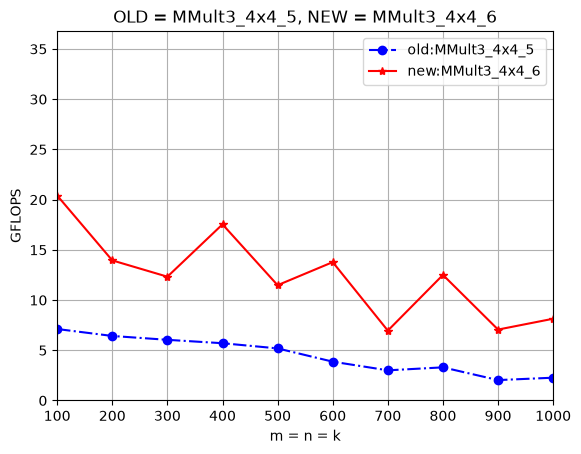
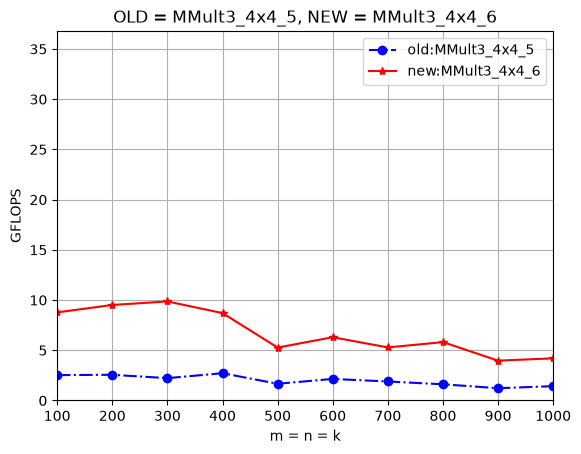
4x4，在WSL上测试，性能最好才到 10 GFLOPS，原因待查

diff --git a/src/MMult3_4x4_12.c b/src/MMult3_4x4_12.c
@@ -1,48 +1,44 @@
-
-/* Create macros so that the matrices are stored in column-major order */
-
+/* Create macros so that the matrices are stored in row-major order */
 #define A(i,j) a[ (i)*lda + (j) ]
 #define B(i,j) b[ (i)*ldb + (j) ]
 #define C(i,j) c[ (i)*ldc + (j) ]
 
 /* Block sizes */
-#define nc 128
 #define kc 256
+#define nc 128
 
 #define min( i, j ) ( (i)<(j) ? (i): (j) )
 
 /* Routine for computing C = A * B + C */
-
 void AddDot4x4( int, double *, int, double *, int, double *, int );
+void InnerKernel( int m, int n, int k, double *a, int lda, 
+    double *b, int ldb, double *c, int ldc );
 void PackMatrixA( int, double *, int, double * );
 
 void MY_MMult( int m, int n, int k, double *a, int lda, 
                                     double *b, int ldb,
                                     double *c, int ldc )
 {
+  /* This time, we compute a m x nc block of C by a call to the InnerKernel */
   for (int p=0; p<k; p+=kc ){
-    int pb = min( k-p, kc );
-    for (int i=0; i<n; i+=nc ){
-      int ib = min( n-i, nc );
-      InnerKernel( m, ib, pb, &A( 0, p), lda, &B(p, i ), ldb, &C( 0,i ), ldc );
+    int kb = min( k-p, kc );
+    for (int j=0; j<n; j+=nc ){
+      int nb = min( n-j, nc );
+      InnerKernel( m, nb, kb, &A( 0, p), lda, &B(p, j ), ldb, &C( 0,j ), ldc );
     }
   }
 }
-
 
 void InnerKernel( int m, int n, int k, double *a, int lda, 
                                        double *b, int ldb,
                                        double *c, int ldc )
 {
-  int i, j;
-  double 
-    packedA[ m * k ];
-
-  for ( i=0; i<m; i+=4 ){        /* Loop over the columns of C, unrolled by 4 */
+  double packedA[ m * k ];
+  for (int i=0; i<m; i+=4 ){ /* Loop over the rows of C */
     PackMatrixA( k, &A( i, 0 ), lda, &packedA[ i*k ] );
-    for ( j=0; j<n; j+=4 ){        /* Loop over the rows of C */
+    for (int j=0; j<n; j+=4 ){ /* Loop over the columns of C, unrolled by 4 */
       /* Update C( i,j ), C( i,j+1 ), C( i,j+2 ), and C( i,j+3 ) in
-	 one routine (four inner products) */
+	   one routine (four inner products) */
       AddDot4x4( k, &packedA[ i*k ], k , &B( 0,j ), ldb, &C( i,j ), ldc );
     }
   }
@@ -53,9 +49,8 @@ void PackMatrixA( int k, double *a, int lda, double *a_to )
   double 
     *a_0i_pntr = &A( 0, 0 ), *a_1i_pntr = &A( 1, 0 ),
     *a_2i_pntr = &A( 2, 0 ), *a_3i_pntr = &A( 3, 0 );
-  int j;
 
-  for( j=0; j<k; j++){  /* loop over columns of A */
+  for(int j=0; j<k; j++){ /* loop over columns of A */
     *a_to++ = *a_0i_pntr++;
     *a_to++ = *a_1i_pntr++;
     *a_to++ = *a_2i_pntr++;
@@ -63,10 +58,7 @@ void PackMatrixA( int k, double *a, int lda, double *a_to )
   }
 }
 
-#include <mmintrin.h>
-#include <xmmintrin.h>  // SSE
-#include <pmmintrin.h>  // SSE2
-#include <emmintrin.h>  // SSE3
+#include <immintrin.h>
 
 typedef union
 {
@@ -97,62 +89,49 @@ void AddDot4x4( int k, double *a, int lda,  double *b, int ldb, double *c, int l
 
 
   v2df_t
-    c_00_c_01_vreg,    c_10_c_11_vreg,    c_20_c_21_vreg,    c_30_c_31_vreg,
-    c_02_c_03_vreg,    c_12_c_13_vreg,    c_22_c_23_vreg,    c_32_c_33_vreg,
-    b_p0_b_p1_vreg,
-    b_p2_a_p3_vreg,
-    a_0p_vreg, a_1p_vreg, a_2p_vreg, a_3p_vreg; 
+    c_00_c_01_vreg, c_02_c_03_vreg,
+    c_10_c_11_vreg, c_12_c_13_vreg,
+    c_20_c_21_vreg, c_22_c_23_vreg,
+    c_30_c_31_vreg, c_32_c_33_vreg,
+    a_0p_vreg, a_1p_vreg, a_2p_vreg, a_3p_vreg,
+    b_p0_b_p1_vreg, b_p2_b_p3_vreg; 
 
-  double 
-    /* Point to the current elements in the four columns of B */
-    *a_0p_pntr, *a_1p_pntr, *a_2p_pntr, *a_3p_pntr; 
-    
-  a_0p_pntr = &A( 0, 0 );
-  a_1p_pntr = &A( 1, 0 );
-  a_2p_pntr = &A( 2, 0 );
-  a_3p_pntr = &A( 3, 0 );
-
-  c_00_c_01_vreg.v = _mm_setzero_pd();   
+  c_00_c_01_vreg.v = _mm_setzero_pd();
+  c_02_c_03_vreg.v = _mm_setzero_pd();
   c_10_c_11_vreg.v = _mm_setzero_pd();
-  c_20_c_21_vreg.v = _mm_setzero_pd(); 
-  c_30_c_31_vreg.v = _mm_setzero_pd(); 
-  c_02_c_03_vreg.v = _mm_setzero_pd();   
-  c_12_c_13_vreg.v = _mm_setzero_pd();  
-  c_22_c_23_vreg.v = _mm_setzero_pd();   
-  c_32_c_33_vreg.v = _mm_setzero_pd(); 
+  c_12_c_13_vreg.v = _mm_setzero_pd();
+  c_20_c_21_vreg.v = _mm_setzero_pd();
+  c_22_c_23_vreg.v = _mm_setzero_pd();
+  c_30_c_31_vreg.v = _mm_setzero_pd();
+  c_32_c_33_vreg.v = _mm_setzero_pd();
 
   for (int p=0; p<k; p++ ){
+    a_0p_vreg.v = _mm_loaddup_pd( (double *) a++ );   /* load and duplicate */
+    a_1p_vreg.v = _mm_loaddup_pd( (double *) a++ );   /* load and duplicate */
+    a_2p_vreg.v = _mm_loaddup_pd( (double *) a++ );   /* load and duplicate */
+    a_3p_vreg.v = _mm_loaddup_pd( (double *) a++ );   /* load and duplicate */
+
     b_p0_b_p1_vreg.v = _mm_load_pd( (double *) &B( p, 0 ) );
-    b_p2_a_p3_vreg.v = _mm_load_pd( (double *) &B( p, 2 ) );
+    b_p2_b_p3_vreg.v = _mm_load_pd( (double *) &B( p, 2 ) );
 
-    a_0p_vreg.v = _mm_loaddup_pd( (double *) a );   /* load and duplicate */
-    a_1p_vreg.v = _mm_loaddup_pd( (double *) (a+1));   /* load and duplicate */
-    a_2p_vreg.v = _mm_loaddup_pd( (double *) (a+2) );   /* load and duplicate */
-    a_3p_vreg.v = _mm_loaddup_pd( (double *) (a+3) );   /* load and duplicate */
-
-    a+=4;
     /* First row and second rows */
     c_00_c_01_vreg.v += a_0p_vreg.v * b_p0_b_p1_vreg.v;
+    c_02_c_03_vreg.v += a_0p_vreg.v * b_p2_b_p3_vreg.v;
     c_10_c_11_vreg.v += a_1p_vreg.v * b_p0_b_p1_vreg.v;
-    c_20_c_21_vreg.v += a_2p_vreg.v * b_p0_b_p1_vreg.v;
-    c_30_c_31_vreg.v += a_3p_vreg.v * b_p0_b_p1_vreg.v;
-
+    c_12_c_13_vreg.v += a_1p_vreg.v * b_p2_b_p3_vreg.v;
     /* Third and fourth rows */
-    c_02_c_03_vreg.v += a_0p_vreg.v * b_p2_a_p3_vreg.v;
-    c_12_c_13_vreg.v += a_1p_vreg.v * b_p2_a_p3_vreg.v;
-    c_22_c_23_vreg.v += a_2p_vreg.v * b_p2_a_p3_vreg.v;
-    c_32_c_33_vreg.v += a_3p_vreg.v * b_p2_a_p3_vreg.v;
+    c_20_c_21_vreg.v += a_2p_vreg.v * b_p0_b_p1_vreg.v;
+    c_22_c_23_vreg.v += a_2p_vreg.v * b_p2_b_p3_vreg.v;
+    c_30_c_31_vreg.v += a_3p_vreg.v * b_p0_b_p1_vreg.v;
+    c_32_c_33_vreg.v += a_3p_vreg.v * b_p2_b_p3_vreg.v;
   }
 
-  C( 0, 0 ) += c_00_c_01_vreg.d[0];  C( 1, 0 ) += c_10_c_11_vreg.d[0];  
-  C( 2, 0 ) += c_20_c_21_vreg.d[0];  C( 3, 0 ) += c_30_c_31_vreg.d[0]; 
-
-  C( 0, 1 ) += c_00_c_01_vreg.d[1];  C( 1, 1 ) += c_10_c_11_vreg.d[1];  
-  C( 2, 1 ) += c_20_c_21_vreg.d[1];  C( 3, 1 ) += c_30_c_31_vreg.d[1]; 
-
-  C( 0, 2 ) += c_02_c_03_vreg.d[0];  C( 1, 2 ) += c_12_c_13_vreg.d[0];  
-  C( 2, 2 ) += c_22_c_23_vreg.d[0];  C( 3, 2 ) += c_32_c_33_vreg.d[0]; 
-
-  C( 0, 3 ) += c_02_c_03_vreg.d[1];  C( 1, 3 ) += c_12_c_13_vreg.d[1];  
-  C( 2, 3 ) += c_22_c_23_vreg.d[1];  C( 3, 3 ) += c_32_c_33_vreg.d[1]; 
+  C( 0, 0 ) += c_00_c_01_vreg.d[0];  C( 0, 1 ) += c_00_c_01_vreg.d[1];  
+  C( 0, 2 ) += c_02_c_03_vreg.d[0];  C( 0, 3 ) += c_02_c_03_vreg.d[1];
+  C( 1, 0 ) += c_10_c_11_vreg.d[0];  C( 1, 1 ) += c_10_c_11_vreg.d[1];  
+  C( 1, 2 ) += c_12_c_13_vreg.d[0];  C( 1, 3 ) += c_12_c_13_vreg.d[1]; 
+  C( 2, 0 ) += c_20_c_21_vreg.d[0];  C( 2, 1 ) += c_20_c_21_vreg.d[1];
+  C( 2, 2 ) += c_22_c_23_vreg.d[0];  C( 2, 3 ) += c_22_c_23_vreg.d[1];
+  C( 3, 0 ) += c_30_c_31_vreg.d[0];  C( 3, 1 ) += c_30_c_31_vreg.d[1];
+  C( 3, 2 ) += c_32_c_33_vreg.d[0];  C( 3, 3 ) += c_32_c_33_vreg.d[1]; 
 }

diff --git a/images/output_MMult3_4x4_10.m b/images/output_MMult3_4x4_10.m
@@ -1,0 +1,13 @@
+version = 'MMult3_4x4_10';
+MY_MMult = [
+100 8.510638e+00 3.552714e-15 
+200 1.094391e+01 7.105427e-15 
+300 1.131601e+01 2.131628e-14 
+400 8.705114e+00 1.776357e-14 
+500 6.302627e+00 1.421085e-14 
+600 6.127312e+00 2.131628e-14 
+700 5.666050e+00 2.842171e-14 
+800 4.708977e+00 3.552714e-14 
+900 3.133132e+00 3.197442e-14 
+1000 4.215123e+00 4.263256e-14 
+];

diff --git a/images/output_MMult3_4x4_11.m b/images/output_MMult3_4x4_11.m
@@ -1,0 +1,13 @@
+version = 'MMult3_4x4_11';
+MY_MMult = [
+100 1.025641e+01 3.552714e-15 
+200 9.395185e+00 7.105427e-15 
+300 8.906482e+00 1.243450e-14 
+400 9.007741e+00 2.131628e-14 
+500 9.416905e+00 2.131628e-14 
+600 8.843579e+00 3.730349e-14 
+700 9.751660e+00 5.329071e-14 
+800 6.635433e+00 6.394885e-14 
+900 9.138659e+00 4.618528e-14 
+1000 8.322514e+00 6.039613e-14 
+];

diff --git a/images/output_MMult3_4x4_12.m b/images/output_MMult3_4x4_12.m
@@ -1,0 +1,13 @@
+version = 'MMult3_4x4_12';
+MY_MMult = [
+100 1.010101e+01 3.552714e-15 
+200 1.022364e+01 7.105427e-15 
+300 9.525490e+00 1.243450e-14 
+400 1.014504e+01 2.131628e-14 
+500 8.191618e+00 2.131628e-14 
+600 9.093397e+00 3.730349e-14 
+700 1.065234e+01 5.329071e-14 
+800 8.033956e+00 6.394885e-14 
+900 9.780246e+00 4.618528e-14 
+1000 9.685887e+00 6.039613e-14 
+];

diff --git a/images/output_MMult3_4x4_13.m b/images/output_MMult3_4x4_13.m
@@ -1,0 +1,13 @@
+version = 'MMult3_4x4_13';
+MY_MMult = [
+100 8.000000e+00 3.552714e-15 
+200 1.036269e+01 7.105427e-15 
+300 1.015801e+01 1.243450e-14 
+400 1.102498e+01 2.131628e-14 
+500 1.010877e+01 2.131628e-14 
+600 1.058824e+01 3.730349e-14 
+700 9.015758e+00 5.329071e-14 
+800 9.177354e+00 6.394885e-14 
+900 1.048325e+01 4.618528e-14 
+1000 1.073215e+01 6.039613e-14 
+];

diff --git a/images/output_MMult3_4x4_14.m b/images/output_MMult3_4x4_14.m
@@ -1,0 +1,13 @@
+version = 'MMult3_4x4_14';
+MY_MMult = [
+100 7.518797e+00 3.552714e-15 
+200 7.380074e+00 7.105427e-15 
+300 6.930185e+00 1.243450e-14 
+400 6.824483e+00 2.131628e-14 
+500 7.235890e+00 2.131628e-14 
+600 7.072807e+00 3.730349e-14 
+700 6.486936e+00 5.329071e-14 
+800 6.908276e+00 6.394885e-14 
+900 7.086304e+00 4.618528e-14 
+1000 7.131218e+00 6.039613e-14 
+];

diff --git a/images/output_MMult3_4x4_15.m b/images/output_MMult3_4x4_15.m
@@ -1,0 +1,13 @@
+version = 'MMult3_4x4_15';
+MY_MMult = [
+100 1.020408e+01 3.552714e-15 
+200 9.981285e+00 7.105427e-15 
+300 7.822686e+00 1.243450e-14 
+400 9.862085e+00 2.131628e-14 
+500 8.343345e+00 2.131628e-14 
+600 9.475347e+00 3.730349e-14 
+700 9.709700e+00 5.329071e-14 
+800 9.976909e+00 6.394885e-14 
+900 1.012788e+01 4.618528e-14 
+1000 9.453806e+00 6.039613e-14 
+];

diff --git a/images/output_MMult3_4x4_3.m b/images/output_MMult3_4x4_3.m
@@ -1,0 +1,13 @@
+version = 'MMult3_4x4_3';
+MY_MMult = [
+100 2.247191e+00 0.000000e+00 
+200 2.524057e+00 0.000000e+00 
+300 3.133887e+00 0.000000e+00 
+400 2.722767e+00 0.000000e+00 
+500 2.743695e+00 0.000000e+00 
+600 2.650892e+00 0.000000e+00 
+700 2.590038e+00 0.000000e+00 
+800 1.927987e+00 0.000000e+00 
+900 2.384141e+00 0.000000e+00 
+1000 2.181710e+00 0.000000e+00 
+];

diff --git a/images/output_MMult3_4x4_4.m b/images/output_MMult3_4x4_4.m
@@ -1,0 +1,13 @@
+version = 'MMult3_4x4_4';
+MY_MMult = [
+100 4.329004e+00 0.000000e+00 
+200 3.644647e+00 0.000000e+00 
+300 3.364276e+00 0.000000e+00 
+400 3.187013e+00 0.000000e+00 
+500 2.938135e+00 0.000000e+00 
+600 3.353048e+00 0.000000e+00 
+700 3.266869e+00 0.000000e+00 
+800 2.461686e+00 0.000000e+00 
+900 3.081085e+00 0.000000e+00 
+1000 2.784108e+00 0.000000e+00 
+];

diff --git a/images/output_MMult3_4x4_5.m b/images/output_MMult3_4x4_5.m
@@ -1,0 +1,13 @@
+version = 'MMult3_4x4_5';
+MY_MMult = [
+100 2.528445e+00 0.000000e+00 
+200 2.560000e+00 0.000000e+00 
+300 2.225244e+00 0.000000e+00 
+400 2.716815e+00 0.000000e+00 
+500 1.665590e+00 0.000000e+00 
+600 2.146488e+00 0.000000e+00 
+700 1.892633e+00 0.000000e+00 
+800 1.613201e+00 0.000000e+00 
+900 1.223609e+00 0.000000e+00 
+1000 1.429186e+00 0.000000e+00 
+];

diff --git a/images/output_MMult3_4x4_6.m b/images/output_MMult3_4x4_6.m
@@ -1,0 +1,13 @@
+version = 'MMult3_4x4_6';
+MY_MMult = [
+100 8.771930e+00 3.552714e-15 
+200 9.512485e+00 7.105427e-15 
+300 9.863014e+00 2.131628e-14 
+400 8.702155e+00 1.776357e-14 
+500 5.270370e+00 1.421085e-14 
+600 6.297927e+00 2.131628e-14 
+700 5.284688e+00 2.842171e-14 
+800 5.810819e+00 3.552714e-14 
+900 3.967530e+00 3.197442e-14 
+1000 4.196224e+00 4.263256e-14 
+];

diff --git a/images/output_MMult3_4x4_7.m b/images/output_MMult3_4x4_7.m
@@ -1,0 +1,13 @@
+version = 'MMult3_4x4_7';
+MY_MMult = [
+100 1.075269e+01 3.552714e-15 
+200 1.062417e+01 7.105427e-15 
+300 1.018868e+01 2.131628e-14 
+400 7.753347e+00 1.776357e-14 
+500 6.503811e+00 1.421085e-14 
+600 5.749192e+00 2.131628e-14 
+700 5.531723e+00 2.842171e-14 
+800 4.129465e+00 3.552714e-14 
+900 2.607128e+00 3.197442e-14 
+1000 4.333356e+00 4.263256e-14 
+];
